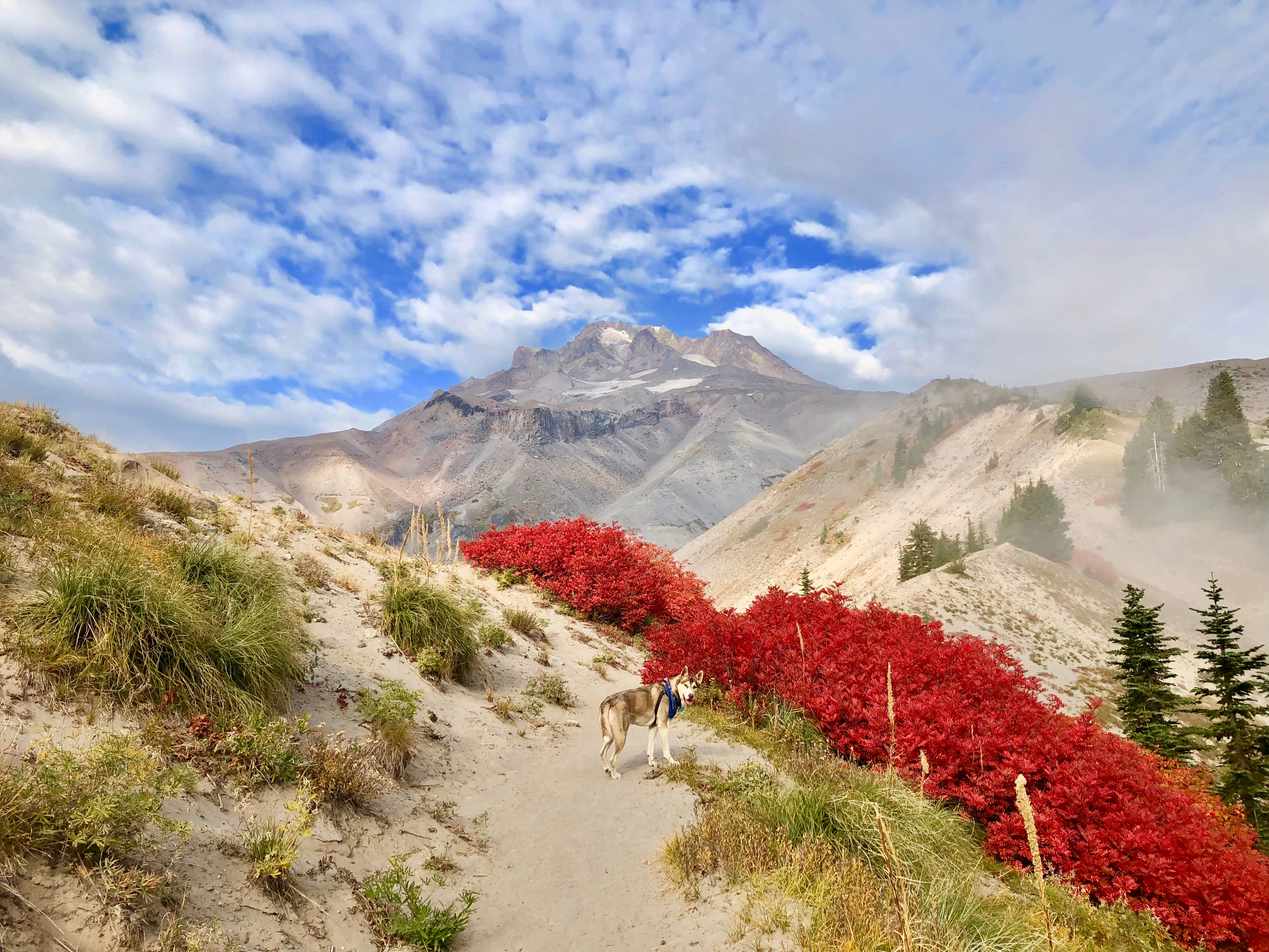
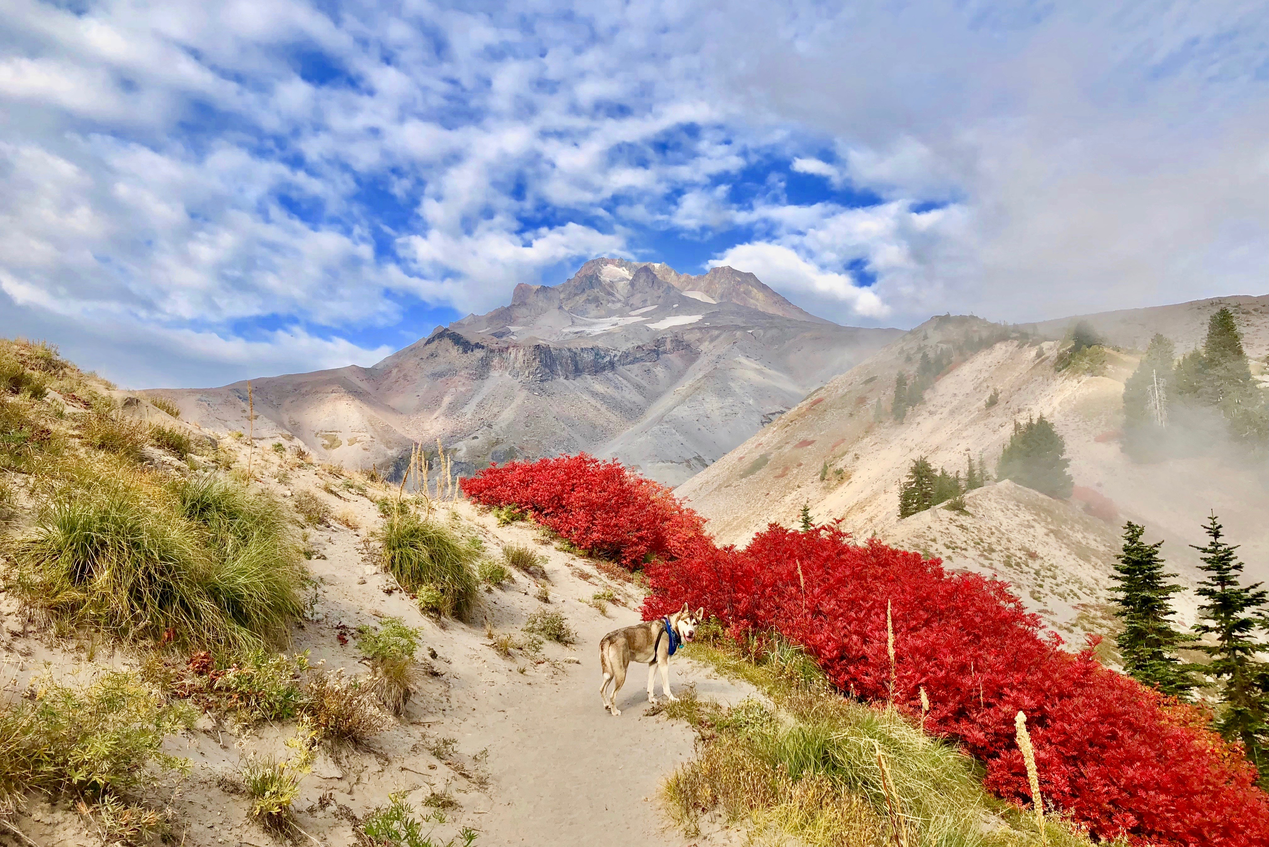
one page website
-changed CSS to make pictures and containers react to screen size vs. having rigid dimensions

-changed some pictures/resized pictures so that they are more uniform in size

-Improved look of rsvp form (changed style of submit button, changed size of input lines)

diff --git a/One-Page-Website/Explore the PNW/one_page_website.html b/One-Page-Website/Explore the PNW/one_page_website.html
@@ -72,7 +72,7 @@
                         <!--- PHOTO CONTAINER 3 --->
                         <div class="photo-container">
                             <div class="photo">
-                                <img src="Thumbnails/maxwell_lake.png" alt="Maxwell Lake, Wallowa National Forest, OR" class="hover-shadow">
+                                <img src="Thumbnails/Thumbnail_11.png" alt="Maxwell Lake, Wallowa National Forest, OR" class="hover-shadow">
                                 <div class="photo-overlay" onclick="openModal();currentSlide(3)">        
                                     <h3>Click to Enlarge</h3>
                                     <h4>Sign up for your northwest adventure today!</h4>
@@ -168,7 +168,7 @@
                         <!-- PHOTO CONTAINER 11 -->
                         <div class="photo-container">
                             <div class="photo">
-                                <img src="Thumbnails/Thumbnail_7.png" alt="Mt. Hood, OR" class="hover-shadow">
+                                <img src="Thumbnails/Thumbnail_3.jpg" alt="Mt. Hood, OR" class="hover-shadow">
                                 <div class="photo-overlay" onclick="openModal();currentSlide(11)">        
                                     <h3>Click to Enlarge</h3>
                                     <h4>Sign up for your northwest adventure today!</h4>
@@ -180,7 +180,7 @@
                         <!-- PHOTO CONTAINER 12 -->
                         <div class="photo-container">
                             <div class="photo">
-                                <img src="Thumbnails/Thumbnail_8.png" alt="Deschutes River, OR" class="hover-shadow">
+                                <img src="Thumbnails/Thumbnail_2.jpg" alt="Sunset, Deschutes River, OR" class="hover-shadow">
                                 <div class="photo-overlay" onclick="openModal(12);currentSlide(1)">        
                                     <h3>Click to Enlarge</h3>
                                     <h4>Sign up for your northwest adventure today!</h4>
@@ -194,64 +194,64 @@
                         <span class="close cursor" onclick="closeModal()">&times;</span>
                         <div class="modal-content">
 
-                            <div class="mySlides">
+                            <div class="mySlides center">
                                 <div class="numbertext">1/12</div>
                                 <img src="Thumbnails/Thumbnail_12.jpg" style="width: 100%">
                             </div>
 
-                            <div class="mySlides">
+                            <div class="mySlides center">
                                 <div class="numbertext">2/12</div>
                                 <img src="Thumbnails/Thumbnail_13.png" style="width: 100%">
                             </div>
 
-                            <div class="mySlides">
+                            <div class="mySlides center">
                                 <div class="numbertext">3/12</div>
-                                <img src="Thumbnails/maxwell_lake.png" style="width: 100%">
+                                <img src="Thumbnails/Thumbnail_11.png" style="width: 100%">
                             </div>
 
-                            <div class="mySlides">
+                            <div class="mySlides center">
                                 <div class="numbertext">4/12</div>
                                 <img src="Thumbnails/staircase.png" style="width: 100%">
                             </div>
 
-                            <div class="mySlides">
+                            <div class="mySlides center">
                                 <div class="numbertext">5/12</div>
                                 <img src="Thumbnails/Thumbnail_16.png" style="width: 100%">
                             </div>
 
-                            <div class="mySlides">
+                            <div class="mySlides center">
                                 <div class="numbertext">6/12</div>
                                 <img src="Thumbnails/Thumbnail_17.png" style="width: 100%">
                             </div>
 
-                            <div class="mySlides">
+                            <div class="mySlides center">
                                 <div class="numbertext">7/12</div>
                                 <img src="Thumbnails/Thumbnail_10.png" style="width: 100%">
                             </div>
 
-                            <div class="mySlides">
+                            <div class="mySlides center">
                                 <div class="numbertext">8/12</div>
                                 <img src="Thumbnails/Thumbnail_4.png" style="width: 100%">
                             </div>
 
-                            <div class="mySlides">
+                            <div class="mySlides center">
                                 <div class="numbertext">9/12</div>
                                 <img src="Thumbnails/Thumbnail_5.png" style="width: 100%">
                             </div>
 
-                            <div class="mySlides">
+                            <div class="mySlides center">
                                 <div class="numbertext">10/12</div>
                                 <img src="Thumbnails/Thumbnail_6.png" style="width: 100%">
                             </div>
 
-                            <div class="mySlides">
+                            <div class="mySlides center">
                                 <div class="numbertext">11/12</div>
-                                <img src="Thumbnails/Thumbnail_7.png" style="width: 100%">
+                                <img src="Thumbnails/Thumbnail_3.jpg" style="width: 100%">
                             </div>
 
-                            <div class="mySlides">
+                            <div class="mySlides center">
                                 <div class="numbertext">12/12</div>
-                                <img src="Thumbnails/Thumbnail_8.png" style="width: 100%">
+                                <img src="Thumbnails/Thumbnail_2.jpg" style="width: 100%">
                             </div>
 
                             <!--- NEXT/PREVIOUS CONTROLS --->
@@ -271,10 +271,10 @@
                                     <img class="demo" src="Thumbnails/Thumbnail_13.png" alt="Steens Mountain Wilderness, OR" 
                                         onclick="currentSlide(2)">
 
-                                    <img class="demo" src="Thumbnails/maxwell_lake.png" alt="Maxwell Lake, Wallowa National Forest, OR"
+                                    <img class="demo" src="Thumbnails/Thumbnail_11.png" alt="Maxwell Lake, Wallowa National Forest, OR"
                                         onclick="currentSlide(3)">
 
-                                    <img class="demo" src="Thumbnails/staircase.png" alt="Forest Staircase, North Cascades NP"
+                                    <img class="demo" src="Thumbnails/staircase.png" alt="Forest Staircase, North Cascades National Park, WA"
                                         onclick="currentSlide(4)">
                                                   
                                     <img class="demo" src="Thumbnails/Thumbnail_16.png" alt="Sunrise Over Lake Billy Chinook, OR"
@@ -284,7 +284,7 @@
                                         onclick="currentSlide(6)">
                             </div>
                             <div class="row">
-                                    <img class="demo" src="Thumbnails/Thumbnail_10.png" alt="Devil's Lake, North Cascades NP"
+                                    <img class="demo" src="Thumbnails/Thumbnail_10.png" alt="Devil's Lake, North Cascades National Park, WA"
                                         onclick="currentSlide(7)">
 
                                     <img class="demo" src="Thumbnails/Thumbnail_4.png" alt="Paradise Park, Mt. Hood, OR"
@@ -296,10 +296,10 @@
                                     <img class="demo" src="Thumbnails/Thumbnail_6.png" alt="Enchanted Valley, Olympic National Park, WA"
                                         onclick="currentSlide(10)">
 
-                                   <img class="demo" src="Thumbnails/Thumbnail_7.png" alt="Mt. Hood, OR"
+                                   <img class="demo" src="Thumbnails/Thumbnail_3.jpg" alt="Snowgrass Flats, Gifford-Pinchot National Forest, OR"
                                         onclick="currentSlide(11)">
 
-                                   <img class="demo" src="Thumbnails/Thumbnail_8.png" alt="Deschutes River, OR"
+                                   <img class="demo" src="Thumbnails/Thumbnail_2.jpg" alt="Sunset, Deschutes River, OR"
                                         onclick="currentSlide(12)">
                             </div>
                         </div>
@@ -342,12 +342,15 @@
                                 <input class="rsvp" type="text" value="" placeholder="Last Name"><br>
                                 <input class="rsvp" type="text" value="" placeholder="Email Address"><br>
                                 <input class="rsvp" type="text" value="" placeholder="Phone Number"><br>
+                                
+                                <div class="submit">
+                                    <input type="submit" value="Submit">
+                                </div>
+
                                 <div class="form-spacer">
                                     <label class="terms">Terms and Conditions</label>
                                 </div>
-                                <div class="sumbmit">
-                                    <input type="submit" value="Submit">
-                                </div>
+                                
                             </form>
                         </div>
                     </div>

diff --git a/One-Page-Website/Explore the PNW/one_page_website.css b/One-Page-Website/Explore the PNW/one_page_website.css
@@ -149,15 +149,15 @@ h1 {
 
 .photo-container {
     text-align: center;
-    margin: 15px auto;
-    width: 300px;
-    height: 200px;
+    margin: 1.5% auto;
+    width: 30%;
+    height: 25%;
 }
 
 .photo-container img {
     max-width: 100%;
-    width: 300px;
-    height: 200px;
+    width: 100%;
+    height: 100%;
 }
 
 /* Text over top of pictures */
@@ -226,8 +226,13 @@ h4 {
 
 /* ================== The Modal ==================== */
 .row {
-    padding-left: 15%;
+    padding-left: 17.5%;
 
+}
+.center {
+    margin-left: 7.5%;
+    margin-right: 7.5%;
+    width: 85%;
 }
 
 /*  Background  */
@@ -250,7 +255,7 @@ h4 {
     background-color: black;
     margin: auto;
     padding: 0px;
-    width: 80%;
+    width: 90%;
     max-width: 1200px;
 }
 
@@ -260,7 +265,7 @@ h4 {
     position: absolute;
     top: 10px;
     right: 25px;
-    font-size: 35px;
+    font-size: 45px;
     font-weight: bold;
 }
 
@@ -281,13 +286,13 @@ h4 {
 .next {
     cursor: pointer;
     position: absolute;
-    top: 50%;
+    top: 90%;
     width: auto;
     padding: 16px;
     margin-top: -50%;
     color: white;
     font-weight: bold;
-    font-size: 20px;
+    font-size: 40px;
     transition: 0.6s ease;
     border-radius: 0 3px 3px 0;
     user-select: none;
@@ -329,7 +334,9 @@ img.demo {
     width: 125px;
 }
 
-.active,
+.demo.active {
+    opacity: 1; 
+}
 .demo:hover {
     opacity: 1;
 }
@@ -421,7 +428,7 @@ img.hover-shadow {
     font-weight: 600;
     color:rgb(72, 57, 3);
     padding: 12px 12px;
-    width: 70%;
+    width: 50%;
     border: 1px solid #8D8D80;
     margin: 2% auto;
     border-radius: 7px;
@@ -436,16 +443,16 @@ img.hover-shadow {
     font-weight: 600;
     color:antiquewhite;
     padding: 2% 1% 2% 7%;
-    width: 40%;
+    width: 80%;
     border-top: 1px solid #090b0d;
     border-right: 2px solid #424549;
     border-bottom: 2px solid #424549;
     border-left: 1px solid #090b0d;
-    margin: 10px 1em;
+    margin: 5% 1em;
     border-radius: 7px;
     background: rgb(72, 57, 3);
     box-shadow: inset 0px 3px 0px 0px rgba(5,5,5,0.15);
-    font-family: fantasy;
+    font-family: 'Times New Roman', Times, serif;
 }
 
 .reservation input[type="text"]:hover {
@@ -457,8 +464,6 @@ img.hover-shadow {
 }
 
 .terms {
-    margin: 30px 1px 0 0;
-    padding-left: 52px;
     font-size: 16px;
     line-height: 5px;
     color: rgb(5, 58, 51);
@@ -466,7 +471,7 @@ img.hover-shadow {
     font-family: fantasy;
     position: relative;
     display: inline;
-    float:right;
+    margin-left: 12%;
 }
 
 .terms:hover {
@@ -482,18 +487,18 @@ img.hover-shadow {
     outline: none;
     text-align: center;
     font-family: fantasy;
-    margin: 0px 3%;
+    margin-left:  35%;
     padding: 7px 0px;
-    width: 25%;
-    font-size: 10px;
+    width: 30%;
+    font-size: 20px;
     transition: border-color 0.3s color 0.3s background-color 0.3s;
     border-radius: 7px;
-    background-color: #797a7b;
+    background-color: #3b744dee;
     box-shadow: 1px 1px 4px 0 rgba(0,0,0,0.3)
 }
 
 .submit input[type="submit"]:hover {
-    color: #000;
+    color: rgb(72, 57, 3);
     background-color: whitesmoke;
     box-shadow: inset 1px 2 px 15px 0 rgba(0,0,0,0.5);
 }

diff --git a/One-Page-Website/Explore the PNW/one_page_website.js b/One-Page-Website/Explore the PNW/one_page_website.js
@@ -36,9 +36,9 @@ function showSlides(n) {
     }
     // Give active properties to dot that corresponds to current active slide
     for (i = 0; i < dots.length; i++) {
-        dots[i].className = dots[i].className.replace("active", "");
+        dots[i].className = dots[i].className.replace("active", "");//Change thumbnail attribute from active to inacative
     }
-    slides[slideIndex-1].style.display = "block";
+    slides[slideIndex-1].style.display = "block"; // Display current slide as block
     dots[slideIndex-1].className += " active";
     captionText.innerHTML = dots[slideIndex-1].alt; // Assign alt value to captionText
 } 
